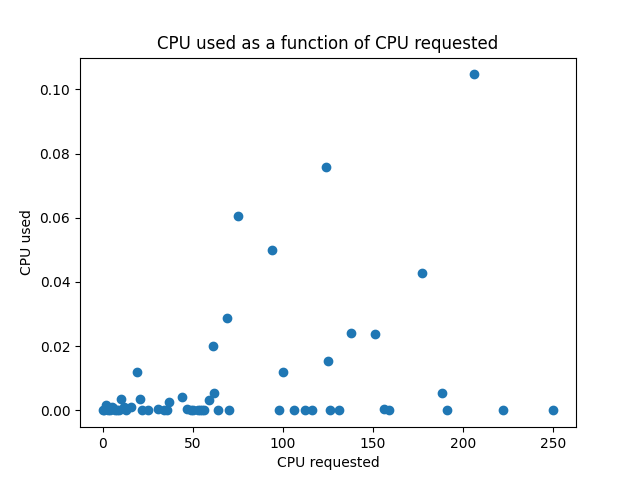
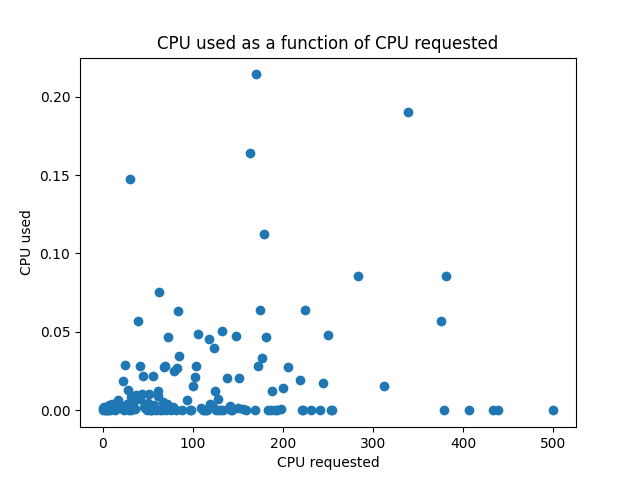
nutilise plus les table -short

diff --git a/main.py b/main.py
@@ -230,8 +230,8 @@ total_machine = nb_of_jobs_per_nb_of_machines.map(lambda e: e[0]*e[1]).reduce(ad
 # request more resource = consume more resources ?
 # =======================================================
 
-tasks = sc.textFile("./data/task-events-short.csv").map(csv_split)
-usage = sc.textFile("./data/task-usage-short.csv").map(csv_split)
+tasks = sc.textFile("./data/task-events.csv").map(csv_split)
+usage = sc.textFile("./data/task-usage.csv").map(csv_split)
 
 EVENTTYPE, CPU_REQ, MEM_REQ, DISK_REQ = 5, 9, 10, 11
 SUBMIT, UPDATE_RUNNING = 0, 8
@@ -401,13 +401,12 @@ def resource_plot(intervals, res_name):
 	plt.xlabel(f'Priority')
 	plt.show()
 
-print(resource_averages.take(10))
-resource_plot(resource_averages.map(
-	lambda res: (res[PRORITY], res[AVERAGE][MEM])
-), 'Memory')
-resource_plot(resource_averages.map(
-	lambda res: (res[PRORITY], res[AVERAGE][CPU])
-), 'CPU')
-resource_plot(resource_averages.map(
-	lambda res: (res[PRORITY], res[AVERAGE][DISK])
-), 'Disk')
+# resource_plot(resource_averages.map(
+# 	lambda res: (res[PRORITY], res[AVERAGE][MEM])
+# ), 'Memory')
+# resource_plot(resource_averages.map(
+# 	lambda res: (res[PRORITY], res[AVERAGE][CPU])
+# ), 'CPU')
+# resource_plot(resource_averages.map(
+# 	lambda res: (res[PRORITY], res[AVERAGE][DISK])
+# ), 'Disk')
